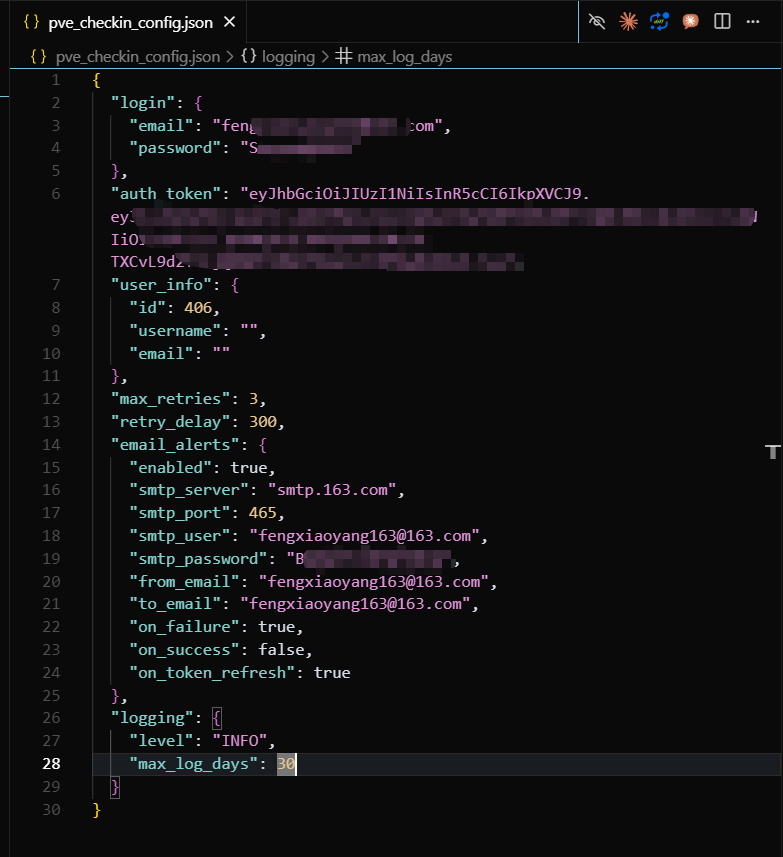
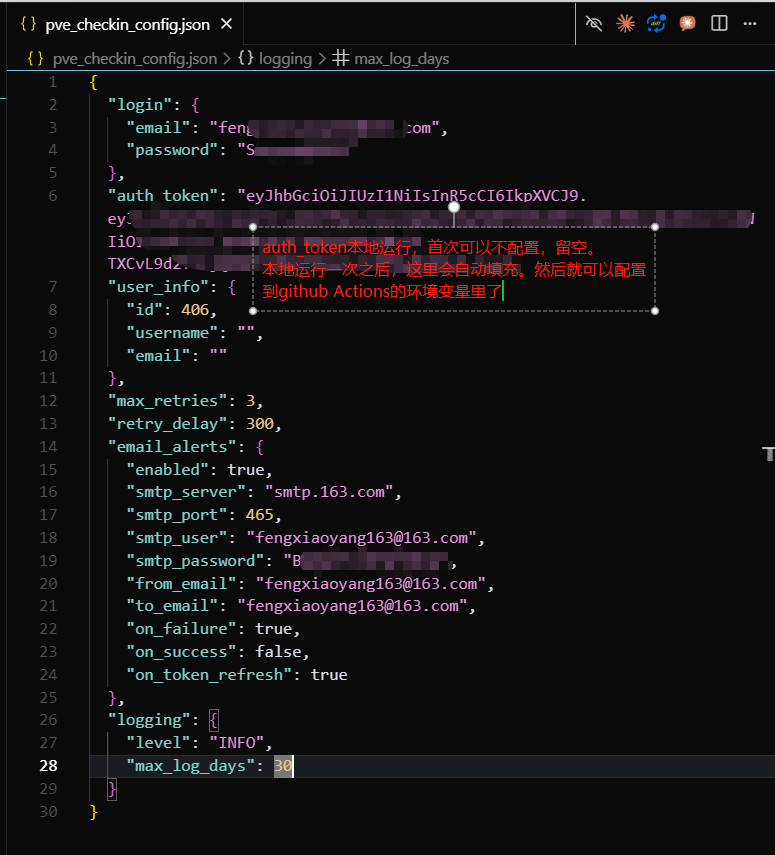
更新 README.md，补充 auth-token 获取及 GitHub Actions secrets 配置说明，更新本地配置文件示例图片。

diff --git a/README.md b/README.md
@@ -69,7 +69,8 @@
    ```
    
    **配置文件示例：**
-   
+   auth-token本地运行时，首次运行会自动获取，后续运行时会自动更新。
+   获取到之后，可以添加到github actions的secrets中.
    ![本地配置文件示例](images/pve_checkin_config_example.png)
 
 4. **测试运行**
